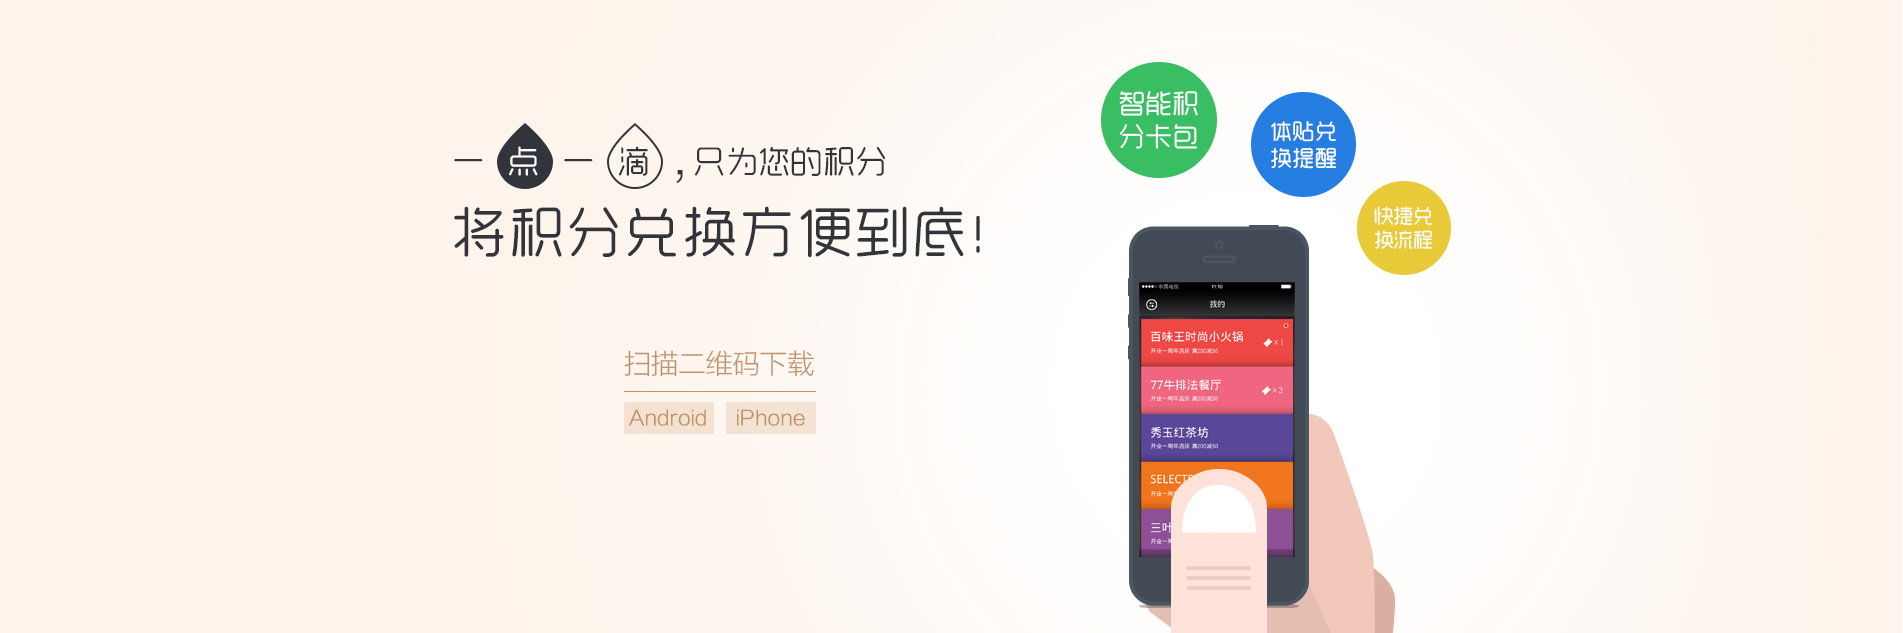
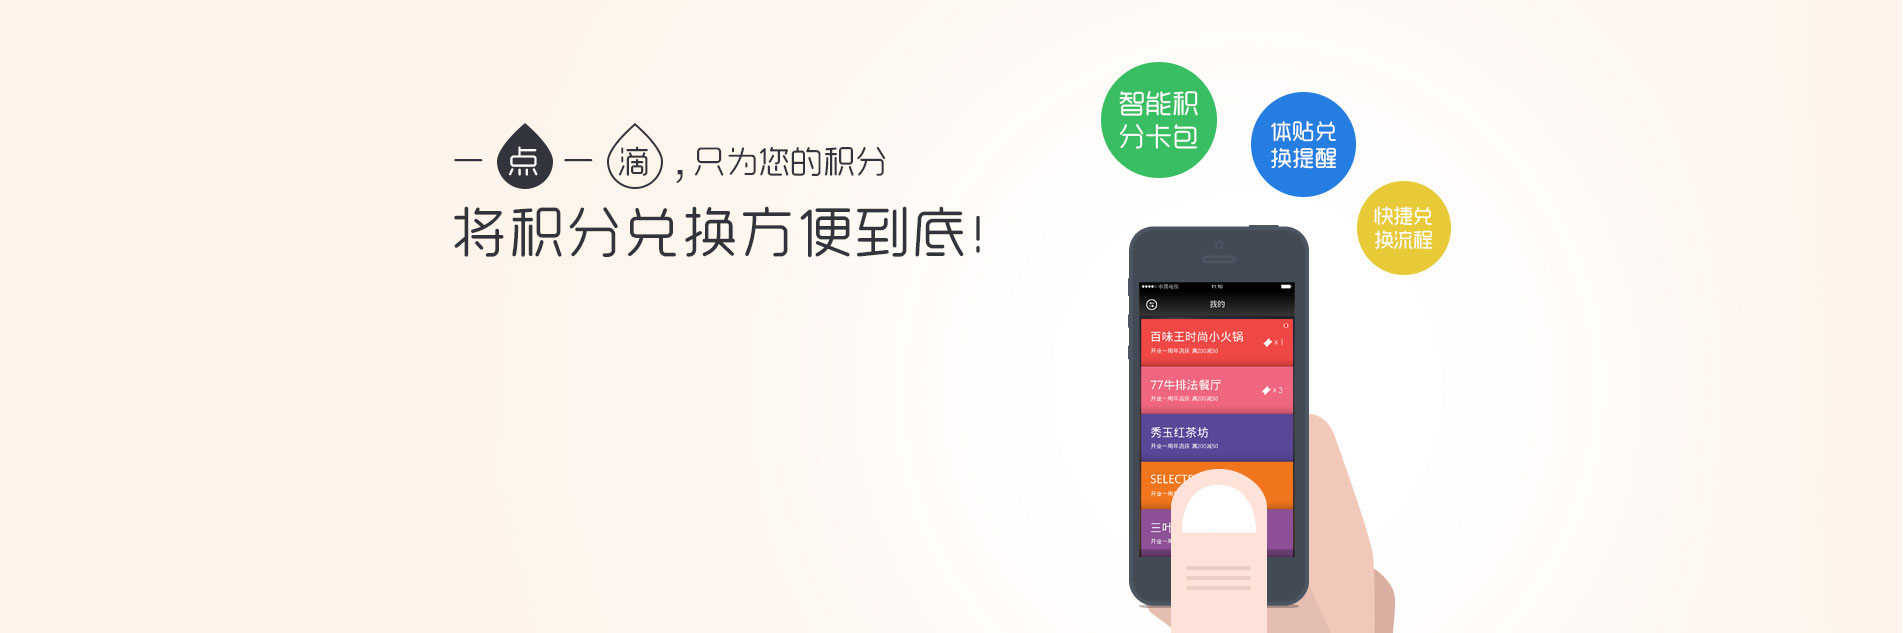
调整斑点狗logo，title字体以及扫描二维码那块细节处理。
调整斑点狗logo，title字体，直接写成文本形式。
二维码那块错位处理，把二维码和扫描提示做在一个层里。

Changed region(s): [[0.31, 0.6303, 0.4341, 0.6904], [0.31, 0.5403, 0.4341, 0.6003]]

diff --git a/bdg/css/css.css b/bdg/css/css.css
@@ -15,8 +15,10 @@ h3{ font:30px "\9ED1\4F53","\5FAE\8F6F\96C5\9ED1"; color:#000; display:block; te
 .header{width:100%;height:92px;/* border-bottom:1px solid #999;*/}
 .hd_box{width:990px;height:92px;margin:0px auto;}
 .header .logs{width:400px;height:71px; padding:13px 0px 0px 24px; float:left;}
-.header .logs a.logo{width:69px;height:71px; background:url(../images/logo.jpg) no-repeat; display:block; float:left;}
-.header .logs h1{width:300px;height:51px; float:left; font:24px arial,"\9ED1\4F53","\5FAE\8F6F\96C5\9ED1",sans-serif; font-weight:normal; margin:12px 0px 0px 15px; display:block; background:url(../images/log_tit.jpg) no-repeat left bottom; text-indent:-9999px;}
+.header .logs a.logo{width:75px;height:75px; display:block; float:left;}
+.header .logs a.logo img{width:75px;height:75px;}
+.header .logs h1{width:300px;height:51px; float:left; font:36px arial,"\9ED1\4F53","\5FAE\8F6F\96C5\9ED1",sans-serif; font-weight:normal; margin:8px 0px 0px 15px; display:block; letter-spacing:3px;}
+.header .logs h1 span{ font-size:14px; letter-spacing:0px;}
 .header .nav{width:200px;height:50px; float:left; margin:43px 0px 0px 300px;}
 .header .nav ul{width:220px;height:50px; display:block; overflow:hidden;}
 .header .nav ul li{width:95px;height:50px; float:left; display:block; line-height:24px; font-size:15px; text-align:center; margin-right:15px;}
@@ -29,8 +31,10 @@ h3{ font:30px "\9ED1\4F53","\5FAE\8F6F\96C5\9ED1"; color:#000; display:block; te
 .banner{width:100%;height:633px; margin:0px auto; background:#fef4eb url(../images/ban_bdg.jpg) center no-repeat; overflow:hidden;}
 .banner div.ban, .banners div.ban{width:1200px;height:633px;margin:0px auto; overflow:hidden; text-align:center;}
 
-.ewm{width:140px;height:140px; margin:320px 0px 0px 105px; padding-right:191px;}
+.ewm{width:140px;height:140px; margin:320px 0px 0px 105px; padding-right:216px;}
 .ewm img{width:140px;height:140px;}
+.admin_notic{background:url(../images/admin_ewm_bg.png) right no-repeat;}
+.shop_notic{background:url(../images/shop_ewm_bg.png) right no-repeat;}
 
 .banners{width:100%;height:633px; margin:0px auto; background:url(../images/ban_bdg_shop.jpg) center no-repeat; overflow:hidden;}
 

diff --git a/bdg/index.html b/bdg/index.html
@@ -13,8 +13,10 @@
     <div class="header">
         <div class="hd_box">
             <div class="logs">
-                <a title="斑点狗" class="logo"></a>
-                <h1>斑点狗</h1>
+                <a title="斑点狗" class="logo"><img src="images/logo.png" /></a>
+                <h1>斑点狗
+                <br /><span>您的智能积分管家</span>
+                </h1>
             </div>
             <div class="nav">
                 <ul>
@@ -26,7 +28,7 @@
     </div>
     <div class="banner">
         <div class="ban">
-            <div class="ewm"><img src="images/ewm_bdg.png" /></div>
+            <div class="ewm admin_notic"><img src="images/ewm_bdg.png" /></div>
         </div>
     </div>
     <div class="wraps">
